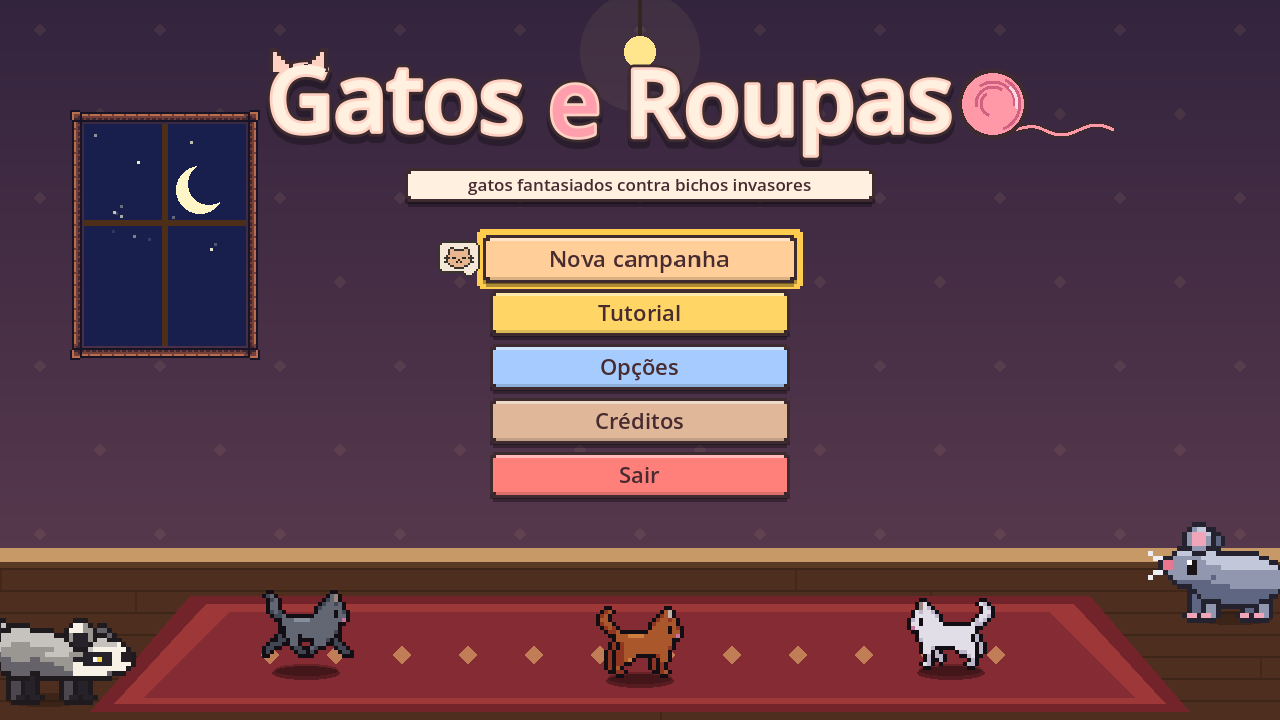
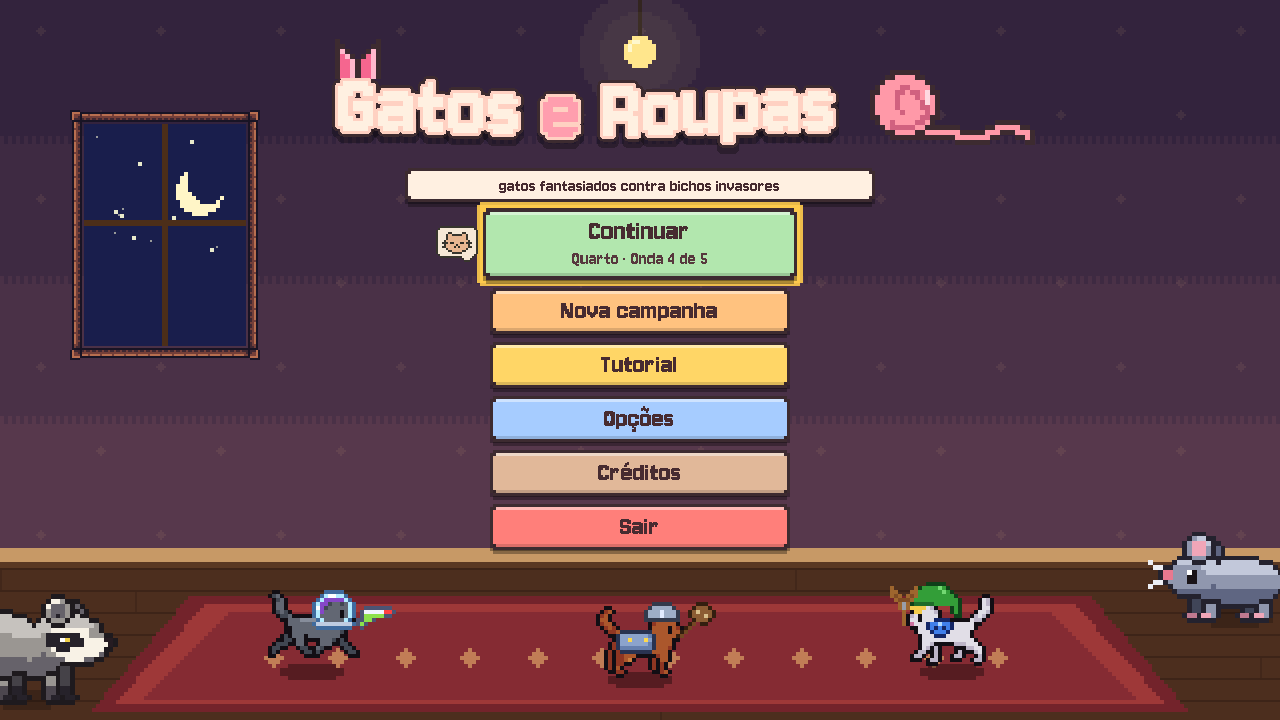
docs(readme): três atos, Ateliê e capturas da arte nova

diff --git a/README.md b/README.md
@@ -19,24 +19,28 @@ um guarda-roupa cheio de peças e muita luta.
 
 ![Guarda-roupa](docs/imagens/guarda-roupa.png)
 
-![Luta no sótão](docs/imagens/luta.png)
+![Luta na cozinha](docs/imagens/luta.png)
 
 ## A campanha
 
-A casa tem cinco cômodos — Quarto, Sala, Cozinha, Sótão e Porão —, cada um com a sua
-família de bichos, cinco ondas e um chefe no fim. Vencida a casa, a aventura continua do
-lado de fora: quintal, garagem, telhado, rua e a toca, com chefes novos.
+A campanha tem três atos. A casa tem cinco cômodos — Quarto, Sala, Cozinha, Sótão e
+Porão —, cada um com a sua família de bichos, cinco ondas e um chefe no fim. Vencida a
+casa, a aventura continua do lado de fora: quintal, garagem, telhado, rua e a toca, com
+chefes novos. Por último vêm as ruas do bairro, onde o time enfrenta gangues de outros
+gatos, também fantasiados, cada uma com os seus truques e um chefe.
 
 ![Mapa da casa](docs/imagens/mapa.png)
 
 Pelo caminho:
 
-- **25 fantasias** e 100 peças para colecionar, guardadas num fichário
+- **quase 60 fantasias** para colecionar peça por peça, guardadas num fichário
 - **gatos que crescem** junto com a campanha e herdam os poderes das fantasias que vestiram
 - **uma torre** que protege a casa e melhora com os troféus ganhos nas lutas
-- **invasão sem fim** e metas para depois de terminar a campanha
+- **o Ateliê**, onde quem completa o fichário cria a própria fantasia
+- **segredos**, invasão sem fim e metas para depois de terminar a campanha
 
 ## Créditos
 
-Gatos: **Last tick**. Interface: **PaperHatLizard** e **ToffeeCraft**. Os efeitos
-sonoros foram sintetizados para o jogo.
+Gatos: **Last tick**. Interface: **PaperHatLizard** e **ToffeeCraft**. Fonte: **Jersey 10**,
+de Sarah Cadigan-Fried (The Soft Type Project). Os efeitos sonoros foram sintetizados para
+o jogo.
